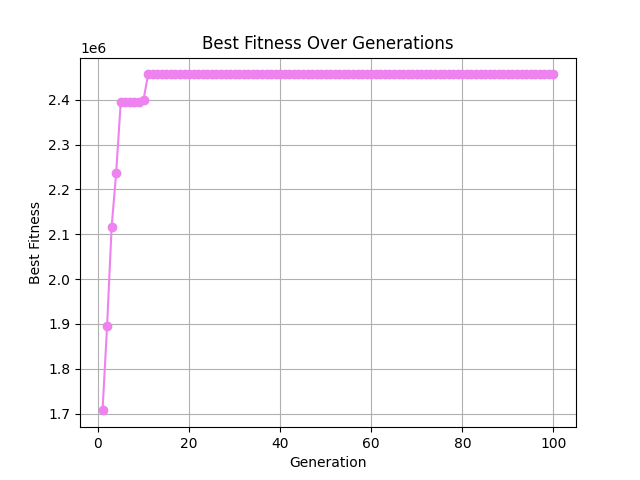
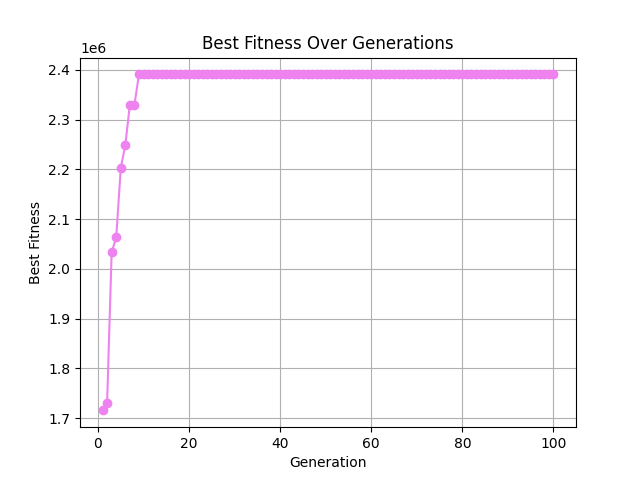
worked on question2

diff --git a/question2.py b/question2.py
@@ -1,97 +1,209 @@
-import random
 import matplotlib.pyplot as plt
 import time
+import numpy as np
 
 # Genetic Algorithm Parameters
 population_size = 200
 mutation_probability = 0.25
 crossover_probability = 0.85
 generations = 100
-num_strings = 4
+string_length = 6 # Number of genes/bytes in each string
+num_strings = 4 # Number of strings in each chromosome
+fitness_function = "(3 * x1**2 * x3 * x4**3 ) + (2 * x2 * x3**3 * x4**2) + (4 * x1 * x2)" 
+ranges = [(2, 5), (5, 10), (0, 6), (10, 15)]
+chromesome_length = num_strings * string_length # Number of genes/bytes in each chromosome
 
-# Function to generate a random individual with decimal values
-def generate_individual():
-    return [random.uniform(0, 1) for _ in range(num_strings)]
+# Function to generate initial generation with decimal values
+def generateInitialPopulation():
+    population = np.zeros((population_size))
+    
+    for i in range(population_size):
+        for j in range(num_strings):
+            lower, upper = ranges[j]
+            # Generate a random decimal value between the lower and upper bounds of the current string
+            population[i, j * string_length: (j + 1) * string_length] = np.random.uniform(lower, upper, size=string_length)
+    print(population)
+    return population
 
-# Function to decode chromosome to real values within specified ranges
-def decode_chromosome(chromosome, ranges):
-    decoded = [lower + value * (upper - lower) for value, (lower, upper) in zip(chromosome, ranges)]
-    return decoded
 
-# Function to evaluate the fitness of an individual
-def fitness(x, y, z, k):
-    return 3 * x**2 * y * z**3 + 2 * y * z**3 * k**2 + 4 * x * y
+# Evaluation: Function to decode and evaluate the fitness of each chromosome
+def evalation(population_matrix):
+    de_values = population_matrix.reshape((population_size, num_strings, string_length))
 
-# Function for two-point crossover
-def crossover(parent1, parent2):
-    crossover_point = random.randint(1, num_strings - 2)
-    child1 = parent1[:crossover_point] + parent2[crossover_point:]
-    child2 = parent2[:crossover_point] + parent1[crossover_point:]
-    return child1, child2
-
-# Function to perform mutation
-def mutate(individual):
-    for i in range(num_strings):
-        if random.uniform(0, 1) < mutation_probability:
-            individual[i] = random.uniform(0, 1)
-    return individual
+    # Evaluate fitness of each chromosome using the fitness function
+    fitness = np.zeros((population_size, 1)) # Create a matrix to store the fitness of each chromosome
+    for i in range(population_size): 
+        x1, x2, x3, x4 = de_values[i]
+        fitness[i] = eval(fitness_function)
+        
+    return fitness
 
 # Function for roulette wheel selection
-def roulette_wheel_selection(population, fitness_values):
-    total_fitness = sum(fitness_values)
-    probabilities = [fit / total_fitness for fit in fitness_values]
-    selected = random.choices(population, weights=probabilities)
-    return selected[0]
+def roulette_wheel_selection(fitness, population_matrix):
+    # Make all fitness values positive
+    if min(fitness) < 0:
+        fitness = fitness + abs(min(fitness))
+        
+    # Calculate the total fitness of the population
+    cumulative_fitness = np.cumsum(fitness)
+    total_fitness = np.sum(fitness)
+
+    # Generate random numbers between 0 and 1 for the roulette wheel
+    random_numbers = np.random.random_sample(population_size)
+
+    # Select the chromosomes that corresponds to the random number based on the cumulative fitness
+    selected_chromosomes = []
+    
+    for number in random_numbers:
+        random_number = number * total_fitness
+        for i in range(population_size):
+            if random_number < cumulative_fitness[i]:
+                selected_chromosomes.append(i)
+                break
+
+    # Get the index of chromosome with the best fitness
+    best_index = np.argmax(fitness)
+
+    # Create a new population matrix with the selected chromosomes
+    new_population_matrix = np.array(population_matrix[selected_chromosomes])
+
+    return best_index, new_population_matrix
+
+
+# Function for two-point crossover
+def two_point_crossover(parent1, parent2, crossover_points):
+    child1 = np.concatenate((parent1[:crossover_points[0]], parent2[crossover_points[0]:crossover_points[1]], parent1[crossover_points[1]:]))
+    child2 = np.concatenate((parent2[:crossover_points[0]], parent1[crossover_points[0]:crossover_points[1]], parent2[crossover_points[1]:]))
+    return child1, child2
+
+# Function to perform crossover
+def crossover(population_matrix):
+    # Initialize a new matrix to store the children
+    new_population_matrix = np.zeros_like(population_matrix)
+
+    for i in range(population_size // 2): # For each chromosome pair
+        # Select two random indices for crossover pair
+        parent_indices = np.random.choice(population_size, size=2, replace=False)
+        parent1, parent2 = population_matrix[parent_indices]
+
+        if np.random.rand() < crossover_probability:     
+            # Select two random crossover points       
+            crossover_points = np.sort(np.random.choice(string_length, size=2, replace=False))
+
+            for j in range(num_strings): # For each string in the chromosome
+                start_index = j * string_length # The start index of the current string
+                end_index = start_index + string_length
+
+                parent1_string = parent1[start_index:end_index]
+                parent2_string = parent2[start_index:end_index]
+
+                child1, child2 = two_point_crossover(parent1_string, parent2_string, crossover_points)
+                new_population_matrix[i * 2, start_index:end_index] = child1
+                new_population_matrix[i * 2 + 1, start_index:end_index] = child2
+
+        else:
+            # Copy the parents into the new population matrix as children
+            new_population_matrix[i * 2] = parent1
+            new_population_matrix[i * 2 + 1] = parent2
+
+    return new_population_matrix
+
+# Function to perform mutation
+def mutation(population_matrix):
+    # Initialize a new matrix to store the children
+    new_population_matrix = np.zeros_like(population_matrix)
+
+    # Perform mutation for each chromosome
+    for i in range(population_size // 2):
+
+        # Select two random indices for mutation pair
+        parent_indices = np.random.choice(population_size, size=2, replace=False)
+
+        # Get the chromosomes for mutation
+        parent1, parent2 = population_matrix[parent_indices]
+
+        new_population_matrix[i * 2] = parent1
+        new_population_matrix[i * 2 + 1] = parent2
+
+        # Check if mutation should be performed based on the mutation rate
+        if np.random.rand() < mutation_probability:
+            # Select a random mutation point
+            mutation_point = np.random.randint(1, string_length)
+
+            # Get the index of the mutation point for each string
+            mutate_point = string_length - mutation_point
+
+            # Perform mutation for each string
+            for j in range(num_strings):
+                # Perform mutation for the current string
+                new_population_matrix[i * 2, mutate_point] = parent2[mutate_point]
+                new_population_matrix[i * 2 + 1, mutate_point] = parent1[mutate_point]
+
+                mutate_point += string_length
+
+    return new_population_matrix
 
 # Main Genetic Algorithm function
-def genetic_algorithm(population_size, num_strings, generations):
-    ranges = [(2, 5), (5, 10), (0, 6), (10, 15)]
-    population = [generate_individual() for _ in range(population_size)]
-    best_fitness_per_generation = []
-
-    for generation in range(generations):
-        decoded_population = [decode_chromosome(individual, ranges) for individual in population]
-        fitness_values = [fitness(*decoded) for decoded in decoded_population]
-
-        best_individual = population[fitness_values.index(max(fitness_values))]
-        best_fitness_per_generation.append(max(fitness_values))
-
-        print(f"Generation {generation + 1}: Best Fitness - {max(fitness_values)}")
-
-        new_population = [best_individual]  # Keep the best individual
-
-        while len(new_population) < population_size:
-            parent1 = roulette_wheel_selection(population, fitness_values)
-            parent2 = roulette_wheel_selection(population, fitness_values)
-
-            if random.uniform(0, 1) < crossover_probability:
-                offspring1, offspring2 = crossover(parent1, parent2)
-                offspring1 = mutate(offspring1)
-                offspring2 = mutate(offspring2)
-                new_population.extend([offspring1, offspring2])
-            else:
-                new_population.extend([mutate(parent1), mutate(parent2)])
-
-        population = new_population
-
-    return best_individual, best_fitness_per_generation
-
-if __name__ == "__main__":
-    start_time = time.time()
-
-    best_solution, best_fitness_per_generation = genetic_algorithm(population_size, num_strings, generations)
-
-    end_time = time.time()
-    computation_time = end_time - start_time
-
-    print("\nBest Solution:", best_solution)
-    print("Best Fitness:", fitness(*decode_chromosome(best_solution, [(2, 5), (5, 10), (0, 6), (10, 15)])))
+def main():
+    start_time = time.time() # Start time of the algorithm
     
+    # Initial Generation i.e generation = 0
+    population_matrix = generateInitialPopulation()
+    fitness = evalation(population_matrix)
+    best_index, new_population_matrix = roulette_wheel_selection(fitness, population_matrix)
+
+    best_solution = population_matrix[best_index] 
+    best_fitness = fitness[best_index]
+    
+    best_fitness_per_generation = []
+    generation_list = []
+
+    for generation in range(1, generations + 1):
+        # Update the population matrix
+        population_matrix = new_population_matrix
+
+        # Perform crossover
+        population_matrix = crossover(population_matrix)
+
+        # Perform mutation
+        population_matrix = mutation(population_matrix)
+
+        # Evaluate fitness
+        fitness = evalation(population_matrix)
+
+        # Selection
+        best_index, new_population_matrix = roulette_wheel_selection(fitness, population_matrix)
+
+        # Update best solution if a better solution is found
+        if fitness[best_index] > best_fitness:
+            best_solution = population_matrix[best_index]
+            best_fitness = fitness[best_index]
+
+        # Store data for plotting
+        generation_list.append(generation)
+        best_fitness_per_generation.append(best_fitness)
+
+        # Print the best solution and fitness for each generation
+        print(f"Generation {generation}: Best Fitness: {best_fitness}")
+    
+    end_time = time.time() # End time of the algorithm
+    computation_time = end_time - start_time # Computation time of the algorithm
+
+    # Print the best solution found so far
+    print("Best Solution: ", best_solution)
+    print("Best Fitness: ", best_fitness)
+
     # Plotting
-    plt.plot(range(1, generations + 1), best_fitness_per_generation, marker='o')
-    plt.title('Generation Number vs Best Fitness')
-    plt.xlabel('Generation Number')
+    plt.plot(generation_list, best_fitness_per_generation, marker='o', color='violet')
+    plt.title('Best Fitness Over Generations')
+    plt.xlabel('Generation')
     plt.ylabel('Best Fitness')
+    plt.grid()
+    plt.savefig("question2.png")
     plt.show()
 
     print(f"\nComputation Time: {computation_time} seconds")
+
+
+if __name__ == "__main__":
+    main()

diff --git a/question1.py b/question1.py
@@ -1,4 +1,3 @@
-import random
 import matplotlib.pyplot as plt
 import time
 import numpy as np
@@ -36,8 +35,7 @@ def evalation(population_matrix):
             start_index = j * string_length
             end_index = start_index + string_length
             
-            lower = ranges[j][0] # The lower bound of the current string
-            upper = ranges[j][1] # The upper bound of the current string
+            lower, upper = ranges[j] # The lower and upper bounds of the current string
 
             binary = population_matrix[i, start_index:end_index] # The binary representation of the current string. Note: i is the index of the current row you are interested in
             decimal = binary_to_decimal(binary) # The decimal representation of the current string
@@ -199,7 +197,7 @@ def main():
         best_fitness_per_generation.append(best_fitness)
 
         # Print the best solution and fitness for each generation
-        print(f"Generation {generation}: Best Solution: {best_solution}, Best Fitness: {best_fitness}")
+        print(f"Generation {generation}: Best Fitness: {best_fitness}")
     
     end_time = time.time() # End time of the algorithm
     computation_time = end_time - start_time # Computation time of the algorithm
